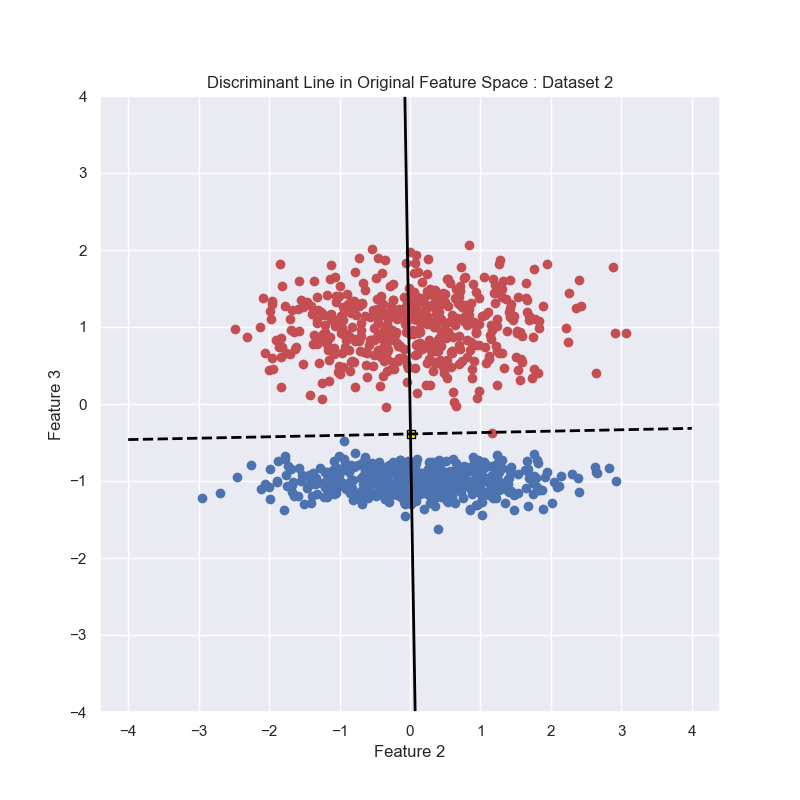
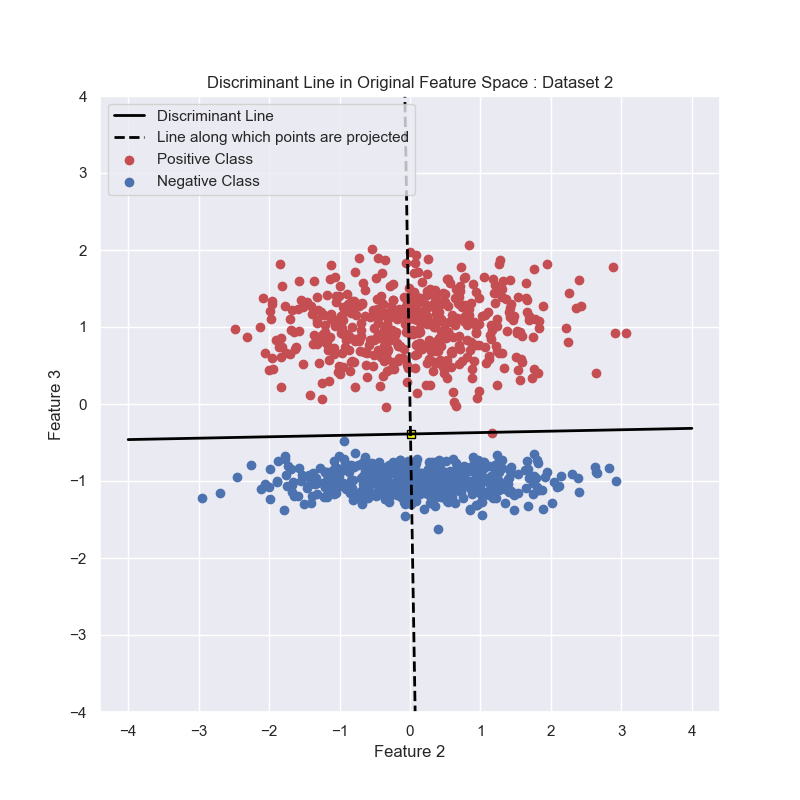
LDA implementation fixed

Changed region(s): [[0.125, 0.125, 0.5312, 0.25]]

diff --git a/fishers_lda/fisher_lda.py b/fishers_lda/fisher_lda.py
@@ -1,9 +1,5 @@
 import numpy as np
-import pandas as pd
-import seaborn as sns
-import matplotlib.pyplot as plt
 import scipy.stats as stats
-sns.set()
 
 def solve (mu1, mu2, sigma1, sigma2):
         '''
@@ -40,7 +36,8 @@ class LDA:
         fit (X, T) : Updates the instance variables _w, _discriminant_point, _orientation_after_collapse for the passed data examples and labels
         predict (X) : Returns a vector containing the predicted class label for each data example using the instance variables
         evaluate (model_prediction, labels) : Returns the test accuracy and f1-score of the final prediction made by the model instance.
-        visualize (X, T) : Renders plots to visualize the final results after projecting data points, using the instance variables of the model.
+        get_w () : Returns the the direction of projection computed
+        get_discriminant_point () : Returns the discriminant point computed
         '''
 
         def __init__ (self, w = None, discriminant_point = None, orientation_after_collapse = None):
@@ -174,119 +171,10 @@ class LDA:
 
                 return test_accuracy, f_score
 
-        def visualize (self, X, T, title = '1'):
-                '''
-                Renders plots to visualize the final results after projecting data points, using the instance variables of the model.
-                        1. Histogram and normal distribution plotted above the projected points, intersection shown
-                        2. Points plotted after projection, in original feature space
-                        3. Direction of projection and discriminant line plotted in original feature space
-                
-                Plots rendered are saved in ./lda_plots/
+        def get_w (self):
 
-                Optional Parameters:
-                title : suffix in title used to save plot, defaults to "1"
+                return self._w
 
-                Necessary Parameters:
-                X : An array of data examples, wherein each column is an individual data instance (feature vector)
-                T : A rank one column vector containing labels
-                '''
+        def get_discriminant_point (self):
 
-                pos_class = X[:, np.where(T==1)[0]]
-                neg_class = X[:, np.where(T==0)[0]]
-
-                proj_pos_class = self._w.T.dot(pos_class)
-                proj_neg_class = self._w.T.dot(neg_class)
-                proj_mean_pos = np.mean(proj_pos_class)
-                proj_mean_neg = np.mean(proj_neg_class)
-                proj_stddev_pos = np.std(proj_pos_class)
-                proj_stddev_neg = np.std(proj_neg_class)
-
-                # Plot a histogram and normal distribution above the projected points, and show their intersection
-                
-                fig = plt.figure(figsize = (8,8))
-                x1 = np.linspace(min(proj_pos_class[0]),max(proj_pos_class[0]),1000)
-                x2 = np.linspace(min(proj_neg_class[0]),max(proj_neg_class[0]),1000)
-
-                plt.hist(proj_pos_class[0],color='r',density=True)
-                plt.hist(proj_neg_class[0],color='b',density=True)
-                plt.plot(x1,stats.norm.pdf(x1, proj_mean_pos, proj_stddev_pos),color='green')
-                plt.plot(x2,stats.norm.pdf(x2, proj_mean_neg, proj_stddev_neg),color='orange')
-
-                intersection_point = solve (proj_mean_pos, proj_mean_neg, proj_stddev_pos, proj_stddev_neg)
-                intersection_point = [x for x in intersection_point if (x > min(proj_mean_neg,proj_mean_pos)) and (x < max(proj_mean_neg,proj_mean_pos))]
-                plt.plot(intersection_point, stats.norm.pdf(intersection_point, proj_mean_neg, proj_stddev_neg), 's', color='black', mfc='yellow')
-                plt.ylabel('Number of points')
-                plt.xlabel('Projected values along 1D')
-                plt.title('Normal Distribution for Projected Points : Dataset ' + title)
-                plt.savefig('lda_plots/normal_dist_plot_dataset_' + title)
-                plt.close(fig)
-
-                # Plot the points after projection
-
-                fig = plt.figure(figsize = (8,8))
-                ax = plt.axes()
-
-                # Slope of line along which they are projected, in original feature space = w[1]/w[0] (if feature space > 3D, this projects it to a 2D plane)
-                # projected class values = distance along the line of projection from the origin (say) = dist
-                # Hence, slope = tan(theta) = w[1]/w[0] and as w[0]^2 + w[1]^2 = 1, cos(theta) = w[0] and sin(theta) = w[1]
-                # x coordinate in original feature space = dist*cos(theta)
-                # y coordinate in original feature space = dist*sin(theta)
-
-                ax.scatter(proj_neg_class * self._w[0], proj_neg_class * self._w[1], color = 'b')
-                ax.scatter(proj_pos_class * self._w[0], proj_pos_class * self._w[1], color = 'r')
-                plt.plot(intersection_point * self._w[0], intersection_point * self._w[1], 's', color='black', mfc='yellow')
-                plt.xlabel('Feature 1')
-                plt.ylabel('Feature 2')
-
-                # To visualize the projected points in the feature 2 - feature 3 plane for a 3D dataset (Dataset 2)
-                # if self._w.shape[0] == 3:
-                #         ax.scatter(proj_neg_class * self._w[1], proj_neg_class * self._w[2], color = 'b')
-                #         ax.scatter(proj_pos_class * self._w[1], proj_pos_class * self._w[2], color = 'r')
-                #         plt.plot(intersection_point * self._w[1], intersection_point * self._w[2], 's', color='black', mfc='yellow')
-                #         plt.xlabel('Feature 2')
-                #         plt.ylabel('Feature 3')
-                        
-                plt.title('Projected Points : Dataset ' + title)
-                plt.savefig('lda_plots/projected_points_dataset_' + title)
-
-                plt.close (fig)
-
-                # Visualize the normal line to the direction of projection, and the direction of projection, on the original dataset
-
-                fig = plt.figure(figsize = (8,8))
-                ax = plt.axes()
-
-                x1 = np.linspace (-4,4,1000)
-
-                if self._w.shape[0] == 2:
-                        
-                        # Normal to the line along which points are projected, passing through the discriminant point, in y = mx + b form
-                        x2 = -(self._w[0]/self._w[1])*x1  + intersection_point * self._w[1] 
-                        # Actual line along which points are projected
-                        x3 = (self._w[1]/self._w[0])*(x1)
-
-                        ax.scatter(pos_class[0],pos_class[1],color='r')
-                        ax.scatter(neg_class[0],neg_class[1],color='b')
-                        plt.plot(intersection_point * self._w[0], intersection_point * self._w[1], 's', color='black', mfc='yellow')
-
-                        plt.xlabel('Feature 1')
-                        plt.ylabel('Feature 2')
-
-                # Dataset 2 has three features, so we project to plane of feature 2 and feature 3 in order to visualize
-                if self._w.shape[0] == 3:
-                        
-                        x2 = -(self._w[1]/self._w[2])*x1  + intersection_point * self._w[2] 
-                        x3 = (self._w[2]/self._w[1])*(x1)
-                        ax.scatter(pos_class[1],pos_class[2],color='r')
-                        ax.scatter(neg_class[1],neg_class[2],color='b')
-                        plt.plot(intersection_point * self._w[1], intersection_point * self._w[2], 's', color='black', mfc='yellow')
-                        plt.xlabel('Feature 2')
-                        plt.ylabel('Feature 3')
-
-                ax.plot(x1, x2, color='black', linestyle = 'dashed', linewidth=2.0)
-                ax.plot(x1, x3, color='black', linewidth=2.0)
-                plt.ylim(-4,4)
-                
-                plt.title('Discriminant Line in Original Feature Space : Dataset ' + title)
-                plt.savefig('lda_plots/discriminant_line_dataset_' + title)
-                plt.close(fig)
+                return self._discriminant_point

diff --git a/fishers_lda/visualize.py b/fishers_lda/visualize.py
@@ -1,0 +1,123 @@
+import numpy as np
+import scipy.stats as stats
+import seaborn as sns
+import matplotlib.pyplot as plt
+sns.set()
+
+def visualize (X, T, w, discriminant_point, title = '1'):
+                '''
+                Renders plots to visualize the final results after projecting data points, using the instance variables of the model.
+                        1. Histogram and normal distribution plotted above the projected points, intersection shown
+                        2. Points plotted after projection, in original feature space
+                        3. Direction of projection and discriminant line plotted in original feature space
+                
+                Plots rendered are saved in ./lda_plots/
+
+                Optional Parameters:
+                title : suffix in title used to save plot, defaults to "1"
+
+                Necessary Parameters:
+                X : An array of data examples, wherein each column is an individual data instance (feature vector)
+                T : A rank one column vector containing labels
+                w : The direction of projection computed by the model
+                discriminant_point : The discriminating point found by the model
+
+                '''
+                pos_class = X[:, np.where(T==1)[0]]
+                neg_class = X[:, np.where(T==0)[0]]
+
+                proj_pos_class = w.T.dot(pos_class)
+                proj_neg_class = w.T.dot(neg_class)
+                proj_mean_pos = np.mean(proj_pos_class)
+                proj_mean_neg = np.mean(proj_neg_class)
+                proj_stddev_pos = np.std(proj_pos_class)
+                proj_stddev_neg = np.std(proj_neg_class)
+
+                # Plot a histogram and normal distribution above the projected points, and show their intersection
+                
+                fig = plt.figure(figsize = (8,8))
+                x1 = np.linspace(min(proj_pos_class[0]),max(proj_pos_class[0]),1000)
+                x2 = np.linspace(min(proj_neg_class[0]),max(proj_neg_class[0]),1000)
+
+                plt.hist(proj_pos_class[0],color='r', density=True, label = 'Projected Positive Class')
+                plt.hist(proj_neg_class[0],color='b', density=True, label = 'Projected Negative Class')
+                plt.plot(x1,stats.norm.pdf(x1, proj_mean_pos, proj_stddev_pos),color='green')
+                plt.plot(x2,stats.norm.pdf(x2, proj_mean_neg, proj_stddev_neg),color='orange')
+
+                plt.plot(discriminant_point, stats.norm.pdf(discriminant_point, proj_mean_neg, proj_stddev_neg), 's', color='black', mfc='yellow', label = 'Intersection Point')
+                plt.legend(loc = "upper left")
+                plt.ylabel('Number of points')
+                plt.xlabel('Projected values along 1D')
+                plt.title('Normal Distribution for Projected Points : Dataset ' + title)
+                plt.savefig('lda_plots/normal_dist_plot_dataset_' + title)
+                plt.close(fig)
+
+                # Plot the points after projection
+
+                fig = plt.figure(figsize = (8,8))
+                ax = plt.axes()
+
+                # Slope of line along which they are projected, in original feature space = w[1]/w[0] (if feature space > 3D, this projects it to a 2D plane)
+                # projected class values = distance along the line of projection from the origin (say) = dist
+                # Hence, slope = tan(theta) = w[1]/w[0] and as w[0]^2 + w[1]^2 = 1, cos(theta) = w[0] and sin(theta) = w[1]
+                # x coordinate in original feature space = dist*cos(theta)
+                # y coordinate in original feature space = dist*sin(theta)
+
+                ax.scatter(proj_pos_class * w[0], proj_pos_class * w[1], color = 'r', label = "Projected Positive Class")
+                ax.scatter(proj_neg_class * w[0], proj_neg_class * w[1], color = 'b', label = "Projected Negative Class")
+                plt.plot(discriminant_point * w[0], discriminant_point * w[1], 's', color='black', mfc='yellow', label = "Discriminant Point")
+                plt.xlabel('Feature 1')
+                plt.ylabel('Feature 2')
+
+                # To visualize the projected points in the feature 2 - feature 3 plane for a 3D dataset (Dataset 2)
+                # if w.shape[0] == 3:
+                #         ax.scatter(proj_pos_class * w[1], proj_pos_class * w[2], color = 'r', label = "Projected Positive Class")
+                #         ax.scatter(proj_neg_class * w[1], proj_neg_class * w[2], color = 'b', label = "Projected Negative Class")
+                #         plt.plot(discriminant_point * w[1], discriminant_point * w[2], 's', color='black', mfc='yellow', label = "Discriminant Point")
+                #         plt.xlabel('Feature 2')
+                #         plt.ylabel('Feature 3')
+                
+                plt.legend(loc = "upper left")
+                plt.title('Projected Points : Dataset ' + title)
+                plt.savefig('lda_plots/projected_points_dataset_' + title)
+                plt.close (fig)
+
+                # Visualize the normal line to the direction of projection, and the direction of projection, on the original dataset
+
+                fig = plt.figure(figsize = (8,8))
+                ax = plt.axes()
+
+                x1 = np.linspace (-4,4,1000)
+
+                if w.shape[0] == 2:
+                        
+                        # Normal to the line along which points are projected, passing through the discriminant point, in y = mx + b form
+                        x2 = -(w[0]/w[1])*x1  + discriminant_point * w[1] 
+                        # Actual line along which points are projected
+                        x3 = (w[1]/w[0])*(x1)
+
+                        ax.scatter(pos_class[0],pos_class[1],color='r', label = "Positive Class")
+                        ax.scatter(neg_class[0],neg_class[1],color='b', label = 'Negative Class')
+                        plt.plot(discriminant_point * w[0], discriminant_point * w[1], 's', color='black', mfc='yellow')
+
+                        plt.xlabel('Feature 1')
+                        plt.ylabel('Feature 2')
+
+                # Dataset 2 has three features, so we project to plane of feature 2 and feature 3 in order to visualize
+                if w.shape[0] == 3:
+                        
+                        x2 = -(w[1]/w[2])*x1  + discriminant_point * w[2] 
+                        x3 = (w[2]/w[1])*(x1)
+                        ax.scatter(pos_class[1],pos_class[2],color='r', label = "Positive Class")
+                        ax.scatter(neg_class[1],neg_class[2],color='b', label = 'Negative Class')
+                        plt.plot(discriminant_point * w[1], discriminant_point * w[2], 's', color='black', mfc='yellow')
+                        plt.xlabel('Feature 2')
+                        plt.ylabel('Feature 3')
+
+                ax.plot(x1, x2, color='black', linewidth=2.0, label = "Discriminant Line")
+                ax.plot(x1, x3, color='black', linestyle = 'dashed', linewidth=2.0, label = "Line along which points are projected")
+                plt.ylim(-4,4)
+                plt.legend(loc = "upper left")
+                plt.title('Discriminant Line in Original Feature Space : Dataset ' + title)
+                plt.savefig('lda_plots/discriminant_line_dataset_' + title)
+                plt.close(fig)

diff --git a/fishers_lda/main.py b/fishers_lda/main.py
@@ -1,7 +1,6 @@
 import pandas as pd
-import csv
 import numpy as np
-import matplotlib.pyplot as plt
+from visualize import visualize
 from fisher_lda import LDA
 
 if __name__ == "__main__":
@@ -10,7 +9,7 @@ if __name__ == "__main__":
         
         #####################################      FISHER'S LDA     #########################################
 
-        data = pd.read_csv("a1_d1.csv", header = None)
+        data = pd.read_csv("data/a1_d2.csv", header = None)
         X = data.iloc[:,:-1]
         T = data.iloc[:,-1]
         X = np.asarray(X)
@@ -24,4 +23,7 @@ if __name__ == "__main__":
         model_prediction = model.predict (X)
         test_accuracy, f_score = model.evaluate (model_prediction, T)
         print("\nACCURACY : {}\nF1-SCORE : {}".format(test_accuracy, f_score))
-        model.visualize (X, T, '1')
+        
+        w = model.get_w()
+        discriminant_point = model.get_discriminant_point()
+        visualize (X, T, w, discriminant_point, '2')

diff --git a/neural_network/main.py b/neural_network/main.py
@@ -15,7 +15,7 @@ def plot_loss (costs, title):
         plt.xlabel('Epoch')
         plt.ylabel('Cost')
         plt.title('Loss over epochs')
-        plt.savefig('loss_' + title)
+        plt.savefig('loss_plots/loss_' + title)
         plt.close(fig)
 
 
@@ -24,7 +24,7 @@ if __name__ == "__main__":
 
         ########################################      NEURAL NETWORK      ####################################
 
-        data = pd.read_csv('housepricedata.csv', header = None)
+        data = pd.read_csv('data/housepricedata.csv', header = None)
         X_train, X_test, X_val, Y_train, Y_test, Y_val = preprocess_for_gradient_descent (data.iloc[1:,:], 'colwise', 'standardization')
         print(X_train.shape, X_val.shape, X_test.shape, Y_train.shape, Y_val.shape, Y_test.shape)
         

diff --git a/logistic_regression/main.py b/logistic_regression/main.py
@@ -15,7 +15,7 @@ def plot_loss (costs, title):
         plt.xlabel('Epoch')
         plt.ylabel('Cost')
         plt.title('Loss over epochs')
-        plt.savefig('loss_' + title)
+        plt.savefig('loss_plots/loss_' + title)
         plt.close(fig)
 
 
@@ -26,7 +26,7 @@ if __name__ == "__main__":
         
         print("\n\nLOGISTIC:\n");
 
-        data = pd.read_csv('data_banknote_authentication.txt', header = None)
+        data = pd.read_csv('data/data_banknote_authentication.txt', header = None)
         X_train, X_test, X_val, Y_train, Y_test, Y_val = preprocess_for_gradient_descent (data, 'rowwise', 'standardization', (0.7,0.15,0.15))
 
         # print(X_train.shape, X_val.shape, X_test.shape, Y_train.shape, Y_val.shape, Y_test.shape)

diff --git a/naive_bayes/main.py b/naive_bayes/main.py
@@ -69,7 +69,7 @@ if __name__ == "__main__":
 
         #####################################      NAIVE BAYES      #########################################
         
-        with open('a1_d3.txt') as file:
+        with open('data/a1_d3.txt') as file:
                 data = list(csv.reader(file, delimiter = '\t'))
 
         reviews, labels = preprocess_for_naive_bayes (data)

diff --git a/fishers_lda/README.md b/fishers_lda/README.md
@@ -12,20 +12,20 @@ The visualization of projected points, the normal distributions of the projected
 
 The implementation is tested on two datasets, the first one containing 2 features for every data point (2D), and the second containing 3 features for each data example (3D).
 
-2D dataset : `datasets/a1_d1.csv`
+2D dataset : `data/a1_d1.csv`
 
-3D dataset : `datasets/a1_d2.csv`
+3D dataset : `data/a1_d2.csv`
 
 Both datasets consist of 1000 data points each. Each row in each dataset corresponds to a single data point, with the last column of each row indicating the class label, which in this case, is either 0 (negative class) or 1 (positive class). The rest of the columns in each row, contain values for the features.
 
 The algorithm is evaluated on each of these datasets independently.
 
-### Metrics used for evaluation :
+**Metrics used for evaluation :**
 
- - Accuracy = $\frac{Number of correctly classified
- data instances}{Total number of data points}$
+ - Accuracy = $\frac{Number \; of \; correctly \; classified \; 
+ data \; instances}{Total \; number \; of \;  data \; points}$
 
- - F1-Score 
+ - F1-Score = $\frac{2 * recall * precision}{recall + precision}$
 
 ---
 
